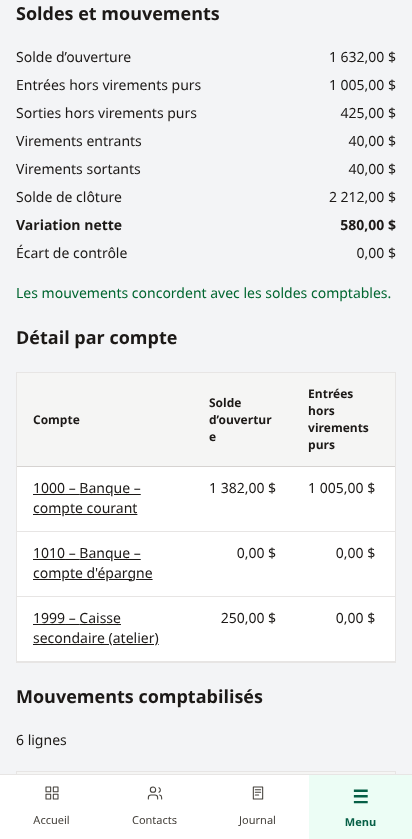
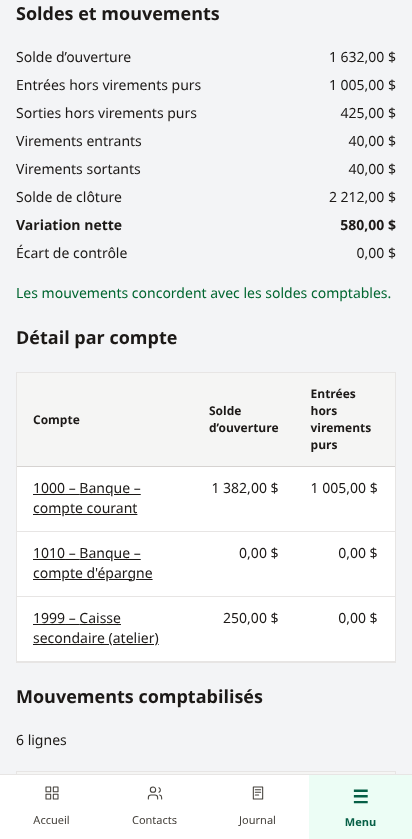
fix(ui): preserve complete cash report headings on mobile

diff --git a/src/app/c/[companyId]/flux-tresorerie/page.tsx b/src/app/c/[companyId]/flux-tresorerie/page.tsx
@@ -29,7 +29,7 @@ export default async function Page({params,searchParams}:{params:Promise<{compan
   <h2 className="text-lg font-semibold">{t("summary")}</h2><dl className="grid max-w-xl grid-cols-[1fr_auto] gap-2 text-sm tabular-nums">{CASH_FIGURES.map(k=><div key={k} className="contents"><dt>{t(k)}</dt><dd className="text-right">{money(report.totals[k])}</dd></div>)}<dt className="font-semibold">{t("net")}</dt><dd className="text-right font-semibold">{money(report.totals.netCents)}</dd><dt>{t("control")}</dt><dd className="text-right">{money(report.totals.differenceCents)}</dd></dl>
   <p role="status" className={report.totals.differenceCents===0n?"text-sm text-green-800 dark:text-green-300":"text-sm font-semibold text-red-800 dark:text-red-300"}>{t(report.totals.differenceCents===0n?"agrees":"warning")}</p>
   {report.mixedEntryCount>0&&<p className="rounded border border-amber-500 p-3 text-sm">{t("mixedNotice",{count:report.mixedEntryCount})}</p>}
-  <h2 className="text-lg font-semibold">{t("accounts")}</h2>{report.byAccount.length===0?<p>{t("emptyAccounts")}</p>:<div className="overflow-x-auto"><table className={TABLE_CLASS}><caption className="sr-only">{t("accounts")}</caption><thead><tr>{[t("account"),...CASH_FIGURES.map(k=>t(k))].map(label=><th scope="col" key={label} className={TH_CLASS}>{label}</th>)}</tr></thead><tbody>{report.byAccount.map(a=><tr key={a.id}><th scope="row" className={`${TD_CLASS} min-w-44 text-left font-normal`}><Link className={`underline ${FOCUS}`} href={`/c/${company.id}/grand-livre?${new URLSearchParams({compte:a.id,du:period.from,au:period.to})}`}>{a.code} – {accountName(a,locale)}</Link></th>{CASH_FIGURES.map(k=><td key={k} className={`${TD_CLASS} whitespace-nowrap text-right tabular-nums`}>{money(a[k])}</td>)}</tr>)}</tbody></table></div>}
+  <h2 className="text-lg font-semibold">{t("accounts")}</h2>{report.byAccount.length===0?<p>{t("emptyAccounts")}</p>:<div className="overflow-x-auto"><table className={TABLE_CLASS}><caption className="sr-only">{t("accounts")}</caption><thead><tr>{[t("account"),...CASH_FIGURES.map(k=>t(k))].map(label=><th scope="col" key={label} className={`${TH_CLASS} [overflow-wrap:normal]`}>{label}</th>)}</tr></thead><tbody>{report.byAccount.map(a=><tr key={a.id}><th scope="row" className={`${TD_CLASS} min-w-44 text-left font-normal`}><Link className={`underline ${FOCUS}`} href={`/c/${company.id}/grand-livre?${new URLSearchParams({compte:a.id,du:period.from,au:period.to})}`}>{a.code} – {accountName(a,locale)}</Link></th>{CASH_FIGURES.map(k=><td key={k} className={`${TD_CLASS} whitespace-nowrap text-right tabular-nums`}>{money(a[k])}</td>)}</tr>)}</tbody></table></div>}
   <h2 className="text-lg font-semibold">{t("detail")}</h2><p className="text-sm">{t("count",{count:report.lineCount})}</p>
   {report.lineCount===0?<p>{t("empty")}</p>:<div className="overflow-x-auto"><table className={TABLE_CLASS}><caption className="sr-only">{t("detail")}</caption><thead><tr>{["date","entry","account","memo","kind","debit","credit"].map(k=><th key={k} scope="col" className={TH_CLASS}>{t(k as "memo")}</th>)}</tr></thead><tbody>{report.lines.map(l=><tr key={l.id}><td className={`${TD_CLASS} whitespace-nowrap`}>{l.date}</td><td className={TD_CLASS}><Link className={`inline-flex min-h-11 items-center underline ${FOCUS}`} href={`/c/${company.id}/journal/${l.entryId}`}>{l.entryNumber}</Link></td><td className={TD_CLASS}>{l.accountCode}</td><td className={`${TD_CLASS} min-w-40 break-words`}>{l.memo}</td><td className={TD_CLASS}>{t(l.kind)}</td><td className={`${TD_CLASS} whitespace-nowrap text-right tabular-nums`}>{money(l.debitCents)}</td><td className={`${TD_CLASS} whitespace-nowrap text-right tabular-nums`}>{money(l.creditCents)}</td></tr>)}</tbody></table></div>}
   {report.pageCount>1&&<nav aria-label={t("pagination")} className="flex flex-wrap items-center gap-3">{report.page>1&&<Link className={button} href={url(report.page-1)}>{t("previous")}</Link>}<span>{t("page",{page:report.page,pages:report.pageCount})}</span>{report.page<report.pageCount&&<Link className={button} href={url(report.page+1)}>{t("next")}</Link>}</nav>}
